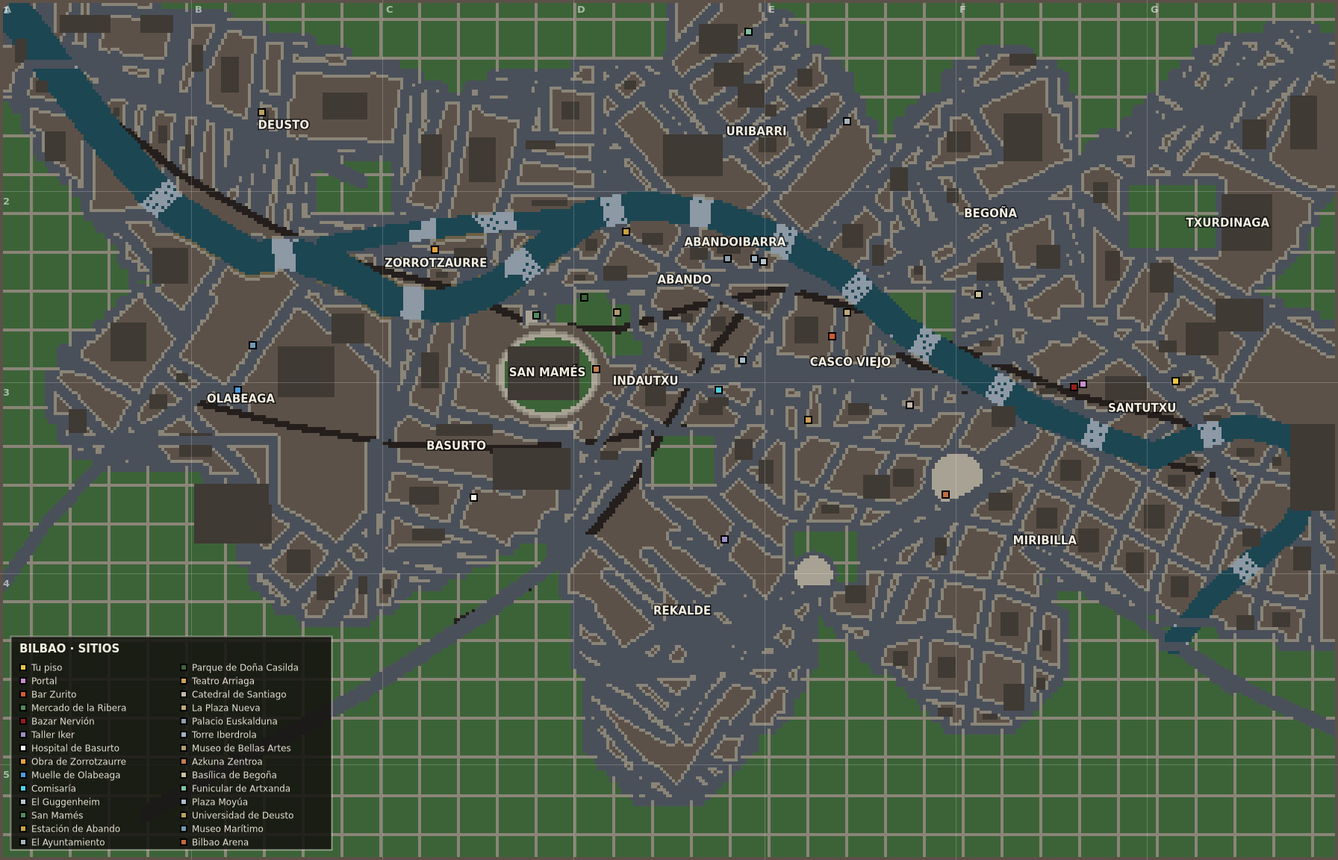
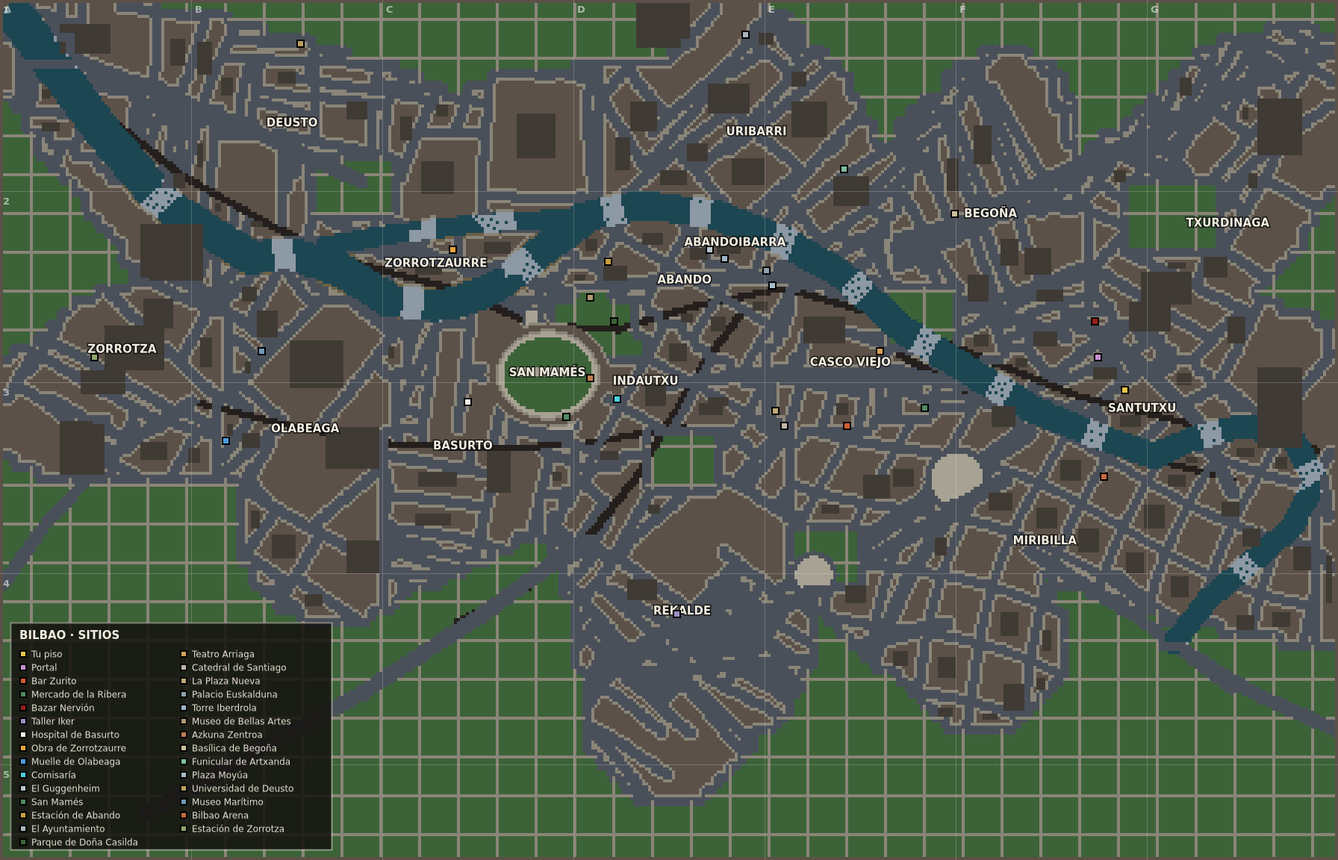
feat(bilbo-city): Zorrotza es barrio propio, no un trozo de Olabeaga
Faltaba. Estaba metido dentro de Olabeaga y en el plano municipal es un
barrio con nombre: margen izquierda río abajo, donde entra el Kadagua.
Puerto, muelles y polígono, así que trama industrial como su vecino pero con
su propio rumbo.

El corredor de la ría abajo se alarga para darle sitio, y lleva la Estación
de Zorrotza como sitio visitable — sin ninguno no había razón para acercarse.

Van 18 barrios y 29 sitios, los 29 cuadrando entre el HTML y Unity.
Verificado: batería entera en verde y C# compilando sin avisos.

Claude-Session: https://claude.ai/code/session_01TRzVFH25BrVEwpaMSPAuky

diff --git a/bilbo-city/referencia/bilbo-city.html b/bilbo-city/referencia/bilbo-city.html
@@ -700,46 +700,46 @@ const ATLAS=[
  'FDDDDDDDDDDDDDDDDDDDDDDDDDDDDDDDDDDDDDDDDDDDDDDDDDUUUUUUUUUUUUUUUUUUUUUUFFFFFUUUGGGGGGGGTTFFFFFFTTTTTTTTTTTTTTTT',
  'FFDDDDDDDDDDDDDDDDDDDDDDDDDDDDDDDDDDDDDDDDDDDDDDDDUUUUUUUUUUUUUUUUUUUUUUFFFFUUUGGGGGGGGGGTFFFFFTTTTTTTTTTTTTTTTT',
  'FFDDDDDDDDDDDDDDDDDDDDDDDDDDDDDDDDDDDDDDDDDDDDDDDDUUUUUUUUUUUUUUUUUUUUUUUFFUUUUGGGGGGGGGGTFFFFTTTTTTTTTTTTTTTTTT',
- 'FFFDDDDDDDDDDDDDDDDDDDDDDDDDDDDDDDDDDDDDDDDDDDDDDDUUUUUUUUUUUUUUUUUUUUUUUFFUUUGGGGGGGGGGGTFFTTTTTTTTTTTTTTTTTTTT',
- 'FFFDDDDDDDDDDDDDDDDDDDDDDDDDDDDDDDDDDDDDDDDDDDDDDDUUUUUUUUUUUUUUUUUUUUUUUUUUUUGGGGGGGGGGGGFTTTTTTTTTTTTTTTTTTTTT',
- 'FFFFDDDDDDDDDDDDDDDDDDDDDDPPPPPPPDDDDDDDDDDDDDDDDDUUUUUUUUUUUUUUUUUUUUUUUUUUUGGGGGGGGGGGGGTTTTTTTTTTTTTTTTTTTTTT',
- 'FFFFFDDDDDDDDDDDDDDDDDDDDDPPPPPPPDDDDDDDDDDDDDDDDDUUUUUUUUUUUUUUUUUUUUUUUUUUGGGGGGGGGGGGGGTTTTTTTTTTTTTTTTTTTTTT',
- 'FFFFFFDDDDDDDDDDDDDDDDDDDDPPPPPPPDDDDDDDDDDDDDDDDDUUUUUUUUUUUUUUUUUUUUUUUUUUGGGGGGGGGGGGGGTTTTPPPPPPPPTTTTTTTTTT',
- 'FFFFFFFDDDDDDDDDDDDDDDDDDDPPPPPPPDDDDDDDDDDDDDDDDDUUUUUUUUUUUUUUUUUUUUUUUUUGGGGGGGGGGGGGGGTTTTPPPPPPPPTTTTTTTTTF',
- 'FFFFFFFDDDDDDDDDDDDDDDDDDDPPPPPPPDDDDDDDDDDDDDDDDUUAAAAAAXUUUUUUUUUUUUUUUUUGGGGGGGGGGGGGGGGTTTPPPPPPPPTTTTTTTTFF',
- 'FFFFFFFFOOOOODDDDDDDDDDDDDDDDDDDDDDDDDDDDDDDDDDDAAAAAAAAAXXXXXUUUUUUUUUUUUGGGGGGGGGGGGGGGGGTTTPPPPPPPPTTTTTTTTFF',
- 'FFFFFFFFFOOOOOOOOODDDDDDDDDDDDDDDDDDZZZZZZZZZZDAAAAAAAAAAAXXXXXXUUUUUUUUUUGGGGGGGGGGGGGGGGGTTTPPPPPPPPTTTTTTTFFF',
- 'FFFFFFFFFFOOOOOOOOOOOODDDDZZZZZZZZZZZZZZZZZZZZZAAAAAAAAAAAXXXXXXXXUUUUUUUGGGGGGGGGGGGGGGGGGTTTPPPPPPPPTTTTTTTFFF',
- 'FFFFFFFFFFOOOOOOOOOOOOOOOZZZZZZZZZZZZZZZZZZZZZZZAAAAAAAAAAAXXXXXXXXAUUUUUGGGGGGGGGGGGGGGGGGTTTTTTTTTTTTTTTTTFFFF',
- 'FFFFFFFFFFFOOOOOOOOOOOOOOZZZZZZZZZZZZZZZZZZZZZZIIIAAAAAAAAAAAXXXXAACCCUUGGGGGGGGGGGGGGGGGGGTTTTTTTTTTTTTTTTFFFFF',
- 'FFFFFFFFFFFFFOOOOOOOOOOOOOZZZZZZZZZZZZZZZZZZZZIIIIIAAAAAAAAAAAAAAAACCCCUGGGGGGGGGGGGGGGGGGGTTTTTTTTTTTTTTTFFFFFF',
- 'FFFFFFFFFFFOOOOOOOOOOOOOOOOZZZZZZZZZZZZZZZZZZIIIPPPIAAAAAAAAAAAAAACCCCCCGGPPPPPPGGGGGGGGGGGTTTTTTTTTTTTTTFFFFFFF',
- 'FFFFFFFFFFOOOOOOOOOOOOOOOOOOOOOOOOBBBBBBBBBBIIPPPPPPPIAAAAAAAAAAAACCCCCCCGPPPPPPGGGGGGGGGGGTTTTTTTTTTTTTTTTFFFFF',
- 'FFFFFFFFFOOOOOOOOOOOOOOOOOOOOOOOOBBBBBBBBBBBEIPPPPPPPIIAAAAAAAAAACCCCCCCCCPPPPPPGGGGGGGGGSSSSTTTTTTTTTTTTTTTTTFF',
- 'FFFFFFFFOOOOOOOOOOOOOOOOOOOOOOOOOBBBBBBBBBBBEEPPPPPPPIIIIAAAAAAAACCCCCCCCCPPPPPPGGGGGGGGSSSSSSSTTTTTTTTTTTTTTTTT',
- 'FFFFFFOOOOOOOOOOOOOOOOOOOOOOOOOOOBBBBBBBBBBEEEEPPPPPPPIIIIAAAAAAACCCCCCCCCPPPPPPGGGGGGSSSSSSSSSSSTTTTTTTTTTTTTTT',
- 'FFFFFOOOOOOOOOOOOOOOOOOOOOOOOOOOOBBBBBBBBBBEEEEPPPPPPPIIIIIAAAAACCCCCCCCCCCCCCCGGGGGSSSSSSSSSSSSSSTTTTTTTTTTTTTT',
- 'FFFFFOOOOOOOOOOOOOOOOOOOOOOOOOOOOBBBBBBBBBBEEEEEEIIIIIIIIIIIIAAACCCCCCCCCCCCCCCCGGSSSSSSSSSSSSSSSSSSTTTTTTTTTTTT',
- 'FFFFOOOOOOOOOOOOOOOOOOOOOOOOOOOOBBBBBBBBBBBEEEEEEIIIIIIIIIIIIIAACCCCCCCCCCCCCCCCCCSSSSSSSSSSSSSSSSSSSTTTTTTTTTTT',
- 'FFFFOOOOOOOOOOOOOOOOOOOOOOOOOOOOBBBBBBBBBBBBEEEEEIIIIIIIIIIIIIIICCCCCCCCCCCCCCCCCCCCSSSSSSSSSSSSSSSSSSTTTTTTTTTT',
- 'FFFFOOOOOOOOOOOOOOOOOOOOOOOOOOOOBBBBBBBBBBBBEEEEEIIIIIIIIIIIIIIICCCCCCCCCCCCCCCCCMMMMSSSSSSSSSSSSSSSSSSTTTTTTTTT',
- 'FFFFOOOOOOOOOOOOOOOOOOOOOOOOOOOOBBBBBBBBBBBBBEEEIIIIIIIIIIIIIIIICCCCCCCCCCCCCCMMMMMMMMMSSSSSSSSSSSSSSSSSSTTTTTTT',
- 'FFFFFOOOOOOOOOOOOOOOOOOOOOOOOOOOBBBBBBBBBBBBBBEEIIIIIIIIIIIIIIRRRCCCCCCCCMMMMMMMMMMMMMMMMMSSSSSSSSSSSSSSSSTTTTTT',
- 'FFFFFOOOOOOOOOOOOOOOOOOOOOOOOOOOBBBBBBBBBBBBBBBIIIIIIIPPPPPPRRRRRRCMMMMMMMMMMMMMMMMMMMMMMMMMSSSSSSSSMMMMMMMMTTTT',
- 'FFFFFFOOOOOOOOOOOOOOOOOOOOOOOOOBBBBBBBBBBBBBBBBBIIIIIIPPPPPPRRRRRRMMMMMMMMMMMMMMMMMMMMMMMMMMMMMSSSMMMMMMMMMMMTTT',
- 'FFFFFFFFOOOOOOOOOOOOOOOOOOOOOOOBBBBBBBBBBBBBBBBBIIIIRRPPPPPPRRRRRRMMMMMMMMMMMMMMMMMMMMMMMMMMMMMMMMMMMMMMMMMMMTTT',
- 'FFFFFFFFFFFFFFFFFOOOOOOOOOOOOOOBBBBBBBBBBBBBBBBBRRRRRRPPPPPPRRRRRRMMMMMMMMMMMMMMMMMMMMMMMMMMMMMMMMMMMMMMMMMMMMTT',
- 'FFFFFFFFFFFFFFFFFFFFFOOOOOOOOOOBBBBBBBBBBBBBBBBBRRRRRRPPPPPPRRRRRRMMMMMMMMMMMMMMMMMMMMMMMMMMMMMMMMMMMMMMMMMMMMTT',
- 'FFFFFFFFFFFFFFFFFFFFOOOOOOOOOOOBBBBBBBBBBBBBBBBRRRRRRRRRRRRRRRRRRRMMMMMMMMMMMMMMMMMMMMMMMMMMMMMMMMMMMMMMMMMMMMST',
- 'FFFFFFFFFFFFFFFFFFFFOOOOOOOOOOOBBBBBBBBBBBBBBBBRRRRRRRRRRRRRRRRRRRMMMMMMMMMMMMMMMMMMMMMMMMMMMMMMMMMMMMMMMMMMMMST',
- 'FFFFFFFFFFFFFFFFFFFFOOOOOOOOOOOBBBBBBBBBBBBBBBRRRRRRRRRRRRRRRRRRRRRMMMMMMMMMMMMMMMMMMMMMMMMMMMMMMMMMMMMMMMMMMMSS',
- 'FFFFFFFFFFFFFFFFFFFFOOOOOOOOOOOBBBBBBBBBBBBBBBRRRRRRRRRRRRRRRRRRRRPPPPPPMMMMMMMMMMMMMMMMMMMMMMMMMMMMMMMMMMMMMMSS',
- 'FFFFFFFFFFFFFFFFFFFFOOOOOOOOOOOBBBBBBBBBBBBFFFRRRRRRRRRRRRRRRRRRRRPPPPPPMMMMMMMMMMMMMMMMMMMMMMMMMMMMMMMMMMMMMMSS',
- 'FFFFFFFFFFFFFFFFFFFFOOOOOOOOOOOBBBBBBBBBBFFFFFRRRRRRRRRRRRRRRRRRRRPPPPPPMMMMMMMMMMMMMMMMMMMMMMMMMMMMMMMMMMMMMMSS',
- 'FFFFFFFFFFFFFFFFFFFFFOOOOOOOOOOBBBBBBBBFFFFFFFFRRRRRRRRRRRRRRRRRRRPPPPPPMMMMMMMMMMMMMMMMMMMMMMMMMMMMMMMMMMMMMMSS',
- 'FFFFFFFFFFFFFFFFFFFFFOOOOOOOOOOBBBBBBFFFFFFFFFFRRRRRRRRRRRRRRRRRRRPPPPPPMMMMMMMMMMMMMMMFMMMMMMMMMMMMMMMMMMMMMMSS',
- 'FFFFFFFFFFFFFFFFFFFFFFOOOOOOOOOBBBFFFFFFFFFFFFFRRRRRRRRRRRRRRRRRRRRMMMMMMMMMMMMMMMMMMMMMFFFMMMMMMMMMMMMMMMMMMMSS',
- 'FFFFFFFFFFFFFFFFFFFFFFFOOOOOOOOBBFFFFFFFFFFFFFFFRRRRRRRRRRRRRRRRRRRRMMMMMMMMMMMMMMMMMMMMFFFFFFMMMMMMMMMMMMMMMMSS',
+ 'FFFYDDDDDDDDDDDDDDDDDDDDDDDDDDDDDDDDDDDDDDDDDDDDDDUUUUUUUUUUUUUUUUUUUUUUUFFUUUGGGGGGGGGGGTFFTTTTTTTTTTTTTTTTTTTT',
+ 'FFFYYYDDDDDDDDDDDDDDDDDDDDDDDDDDDDDDDDDDDDDDDDDDDDUUUUUUUUUUUUUUUUUUUUUUUUUUUUGGGGGGGGGGGGFTTTTTTTTTTTTTTTTTTTTT',
+ 'FFFFYYYYDDDDDDDDDDDDDDDDDDPPPPPPPDDDDDDDDDDDDDDDDDUUUUUUUUUUUUUUUUUUUUUUUUUUUGGGGGGGGGGGGGTTTTTTTTTTTTTTTTTTTTTT',
+ 'FFFFFYYYYDDDDDDDDDDDDDDDDDPPPPPPPDDDDDDDDDDDDDDDDDUUUUUUUUUUUUUUUUUUUUUUUUUUGGGGGGGGGGGGGGTTTTTTTTTTTTTTTTTTTTTT',
+ 'FFFFFFYYYYYDDDDDDDDDDDDDDDPPPPPPPDDDDDDDDDDDDDDDDDUUUUUUUUUUUUUUUUUUUUUUUUUUGGGGGGGGGGGGGGTTTTPPPPPPPPTTTTTTTTTT',
+ 'FFFFFFFYYYYYYDDDDDDDDDDDDDPPPPPPPDDDDDDDDDDDDDDDDDUUUUUUUUUUUUUUUUUUUUUUUUUGGGGGGGGGGGGGGGTTTTPPPPPPPPTTTTTTTTTF',
+ 'FFFFFFFYYYYYYYDDDDDDDDDDDDPPPPPPPDDDDDDDDDDDDDDDDUUAAAAAAXUUUUUUUUUUUUUUUUUGGGGGGGGGGGGGGGGTTTPPPPPPPPTTTTTTTTFF',
+ 'FFFFFFFFYYYYYYYYDDDDDDDDDDDDDDDDDDDDDDDDDDDDDDDDAAAAAAAAAXXXXXUUUUUUUUUUUUGGGGGGGGGGGGGGGGGTTTPPPPPPPPTTTTTTTTFF',
+ 'FFFFFFFFFYYYYYYYYDDDDDDDDDDDDDDDDDDDZZZZZZZZZZDAAAAAAAAAAAXXXXXXUUUUUUUUUUGGGGGGGGGGGGGGGGGTTTPPPPPPPPTTTTTTTFFF',
+ 'FFFFFFFFFFYYYYYYYYOODDDDDDZZZZZZZZZZZZZZZZZZZZZAAAAAAAAAAAXXXXXXXXUUUUUUUGGGGGGGGGGGGGGGGGGTTTPPPPPPPPTTTTTTTFFF',
+ 'FFFFFFFFFFYYYYYYYYOOOOOOOZZZZZZZZZZZZZZZZZZZZZZZAAAAAAAAAAAXXXXXXXXAUUUUUGGGGGGGGGGGGGGGGGGTTTTTTTTTTTTTTTTTFFFF',
+ 'FFFFFFFFFFFYYYYYYYOOOOOOOZZZZZZZZZZZZZZZZZZZZZZIIIAAAAAAAAAAAXXXXAACCCUUGGGGGGGGGGGGGGGGGGGTTTTTTTTTTTTTTTTFFFFF',
+ 'FFFFFFFFFFFYYYYYYYOOOOOOOOZZZZZZZZZZZZZZZZZZZZIIIIIAAAAAAAAAAAAAAAACCCCUGGGGGGGGGGGGGGGGGGGTTTTTTTTTTTTTTTFFFFFF',
+ 'FFFFFFFFYYYYYYYYYYOOOOOOOOOZZZZZZZZZZZZZZZZZZIIIPPPIAAAAAAAAAAAAAACCCCCCGGPPPPPPGGGGGGGGGGGTTTTTTTTTTTTTTFFFFFFF',
+ 'FFFFFFYYYYYYYYYYYYOOOOOOOOOOOOOOOOOBBBBBBBBBIIPPPPPPPIAAAAAAAAAAAACCCCCCCGPPPPPPGGGGGGGGGGGTTTTTTTTTTTTTTTTFFFFF',
+ 'FFFFFYYYYYYYYYYYYYYOOOOOOOOOOOOOOOOBBBBBBBBBEIPPPPPPPIIAAAAAAAAAACCCCCCCCCPPPPPPGGGGGGGGGSSSSTTTTTTTTTTTTTTTTTFF',
+ 'FFFFYYYYYYYYYYYYYYYOOOOOOOOOOOOOOOBBBBBBBBBBEEPPPPPPPIIIIAAAAAAAACCCCCCCCCPPPPPPGGGGGGGGSSSSSSSTTTTTTTTTTTTTTTTT',
+ 'FFFYYYYYYYYYYYYYYYYOOOOOOOOOOOOOOOBBBBBBBBBEEEEPPPPPPPIIIIAAAAAAACCCCCCCCCPPPPPPGGGGGGSSSSSSSSSSSTTTTTTTTTTTTTTT',
+ 'FYYYYYYYYYYYYYYYYYYOOOOOOOOOOOOOOOBBBBBBBBBEEEEPPPPPPPIIIIIAAAAACCCCCCCCCCCCCCCGGGGGSSSSSSSSSSSSSSTTTTTTTTTTTTTT',
+ 'YYYYYYYYYYYYYYYYYYYOOOOOOOOOOOOOOOBBBBBBBBBEEEEEEIIIIIIIIIIIIAAACCCCCCCCCCCCCCCCGGSSSSSSSSSSSSSSSSSSTTTTTTTTTTTT',
+ 'YYYYYYYYYYYYYYYYYYYOOOOOOOOOOOOOOBBBBBBBBBBEEEEEEIIIIIIIIIIIIIAACCCCCCCCCCCCCCCCCCSSSSSSSSSSSSSSSSSSSTTTTTTTTTTT',
+ 'YYYYYYYYYYYYYYYYYYYOOOOOOOOOOOOOOBBBBBBBBBBBEEEEEIIIIIIIIIIIIIIICCCCCCCCCCCCCCCCCCCCSSSSSSSSSSSSSSSSSSTTTTTTTTTT',
+ 'YYYYYYYYYYYYYYYYYYOOOOOOOOOOOOOOOBBBBBBBBBBBEEEEEIIIIIIIIIIIIIIICCCCCCCCCCCCCCCCCMMMMSSSSSSSSSSSSSSSSSSTTTTTTTTT',
+ 'YYYYYYYYYYYYYYYYYYOOOOOOOOOOOOOOOBBBBBBBBBBBBEEEIIIIIIIIIIIIIIIICCCCCCCCCCCCCCMMMMMMMMMSSSSSSSSSSSSSSSSSSTTTTTTT',
+ 'YYYYYYYYYYYYYYYYYYOOOOOOOOOOOOOOOBBBBBBBBBBBBBEEIIIIIIIIIIIIIIRRRCCCCCCCCMMMMMMMMMMMMMMMMMSSSSSSSSSSSSSSSSTTTTTT',
+ 'YYYYYYYYYYYYYYYYYYOOOOOOOOOOOOOOBBBBBBBBBBBBBBBIIIIIIIPPPPPPRRRRRRCMMMMMMMMMMMMMMMMMMMMMMMMMSSSSSSSSMMMMMMMMTTTT',
+ 'YYYYYYYYYYYYYYYYYYOOOOOOOOOOOOOOBBBBBBBBBBBBBBBBIIIIIIPPPPPPRRRRRRMMMMMMMMMMMMMMMMMMMMMMMMMMMMMSSSMMMMMMMMMMMTTT',
+ 'FYYYYYYYYYYYYYYYYYOOOOOOOOOOOOOOBBBBBBBBBBBBBBBBIIIIRRPPPPPPRRRRRRMMMMMMMMMMMMMMMMMMMMMMMMMMMMMMMMMMMMMMMMMMMTTT',
+ 'FFFYYYYYYYYYYYYYYYOOOOOOOOOOOOOOBBBBBBBBBBBBBBBBRRRRRRPPPPPPRRRRRRMMMMMMMMMMMMMMMMMMMMMMMMMMMMMMMMMMMMMMMMMMMMTT',
+ 'FFFFFFFFFFFFFFFFFFFFOOOOOOOOOOOOBBBBBBBBBBBBBBBBRRRRRRPPPPPPRRRRRRMMMMMMMMMMMMMMMMMMMMMMMMMMMMMMMMMMMMMMMMMMMMTT',
+ 'FFFFFFFFFFFFFFFFFFFFOOOOOOOOOOOOBBBBBBBBBBBBBBBRRRRRRRRRRRRRRRRRRRMMMMMMMMMMMMMMMMMMMMMMMMMMMMMMMMMMMMMMMMMMMMST',
+ 'FFFFFFFFFFFFFFFFFFFFOOOOOOOOOOOOBBBBBBBBBBBBBBBRRRRRRRRRRRRRRRRRRRMMMMMMMMMMMMMMMMMMMMMMMMMMMMMMMMMMMMMMMMMMMMST',
+ 'FFFFFFFFFFFFFFFFFFFFOOOOOOOOOOOOBBBBBBBBBBBBBBRRRRRRRRRRRRRRRRRRRRRMMMMMMMMMMMMMMMMMMMMMMMMMMMMMMMMMMMMMMMMMMMSS',
+ 'FFFFFFFFFFFFFFFFFFFFOOOOOOOOOOOOBBBBBBBBBBBBBBRRRRRRRRRRRRRRRRRRRRPPPPPPMMMMMMMMMMMMMMMMMMMMMMMMMMMMMMMMMMMMMMSS',
+ 'FFFFFFFFFFFFFFFFFFFFOOOOOOOOOOOOBBBBBBBBBBBFFFRRRRRRRRRRRRRRRRRRRRPPPPPPMMMMMMMMMMMMMMMMMMMMMMMMMMMMMMMMMMMMMMSS',
+ 'FFFFFFFFFFFFFFFFFFFFOOOOOOOOOOOOBBBBBBBBBFFFFFRRRRRRRRRRRRRRRRRRRRPPPPPPMMMMMMMMMMMMMMMMMMMMMMMMMMMMMMMMMMMMMMSS',
+ 'FFFFFFFFFFFFFFFFFFFFFOOOOOOOOOOOBBBBBBBFFFFFFFFRRRRRRRRRRRRRRRRRRRPPPPPPMMMMMMMMMMMMMMMMMMMMMMMMMMMMMMMMMMMMMMSS',
+ 'FFFFFFFFFFFFFFFFFFFFFOOOOOOOOOOOBBBBBFFFFFFFFFFRRRRRRRRRRRRRRRRRRRPPPPPPMMMMMMMMMMMMMMMFMMMMMMMMMMMMMMMMMMMMMMSS',
+ 'FFFFFFFFFFFFFFFFFFFFFFOOOOOOOOOOBBFFFFFFFFFFFFFRRRRRRRRRRRRRRRRRRRRMMMMMMMMMMMMMMMMMMMMMFFFMMMMMMMMMMMMMMMMMMMSS',
+ 'FFFFFFFFFFFFFFFFFFFFFFFOOOOOOOOOBFFFFFFFFFFFFFFFRRRRRRRRRRRRRRRRRRRRMMMMMMMMMMMMMMMMMMMMFFFFFFMMMMMMMMMMMMMMMMSS',
  'FFFFFFFFFFFFFFFFFFFFFFFFFOOOOOOFFFFFFFFFFFFFFFFFRRRRRRRRRRRRRRRRRRRRFMMMMMMMMMMMMMMMMMMMMFFFFFFFFMMMMMMMMMMMMMSS',
  'FFFFFFFFFFFFFFFFFFFFFFFFFFFFFFFFFFFFFFFFFFFFFFFFRRRRRRRRRRRRRRRRRRRRFFMMMMMMMMMMMMMMMMMMMFFFFFFFFFFFFFMMMMMMMMSS',
  'FFFFFFFFFFFFFFFFFFFFFFFFFFFFFFFFFFFFFFFFFFFFFFFFRRRRRRRRRRRRRRRRRRRRFFFMMMMMMMMMMMMMMMMMMFFFFFFFFFFFFFFFFFFMMMSS',
@@ -777,6 +777,7 @@ const ZONAS={
  D:{n:'Deusto',        sp:19,spy:12,w:3, ox:3, oy:5, ang:8, curva:4, onda:30, estilo:'bloques',      tinte:'#4e5a52'},
  Z:{n:'Zorrotzaurre',  sp:20,spy:16,w:3, ox:2, oy:2, ang:14, curva:2, onda:30, estilo:'industrial',   tinte:'#6b5f45'},
  O:{n:'Olabeaga',      sp:26,spy:20,w:3, ox:6, oy:4, ang:40, curva:5, onda:26, estilo:'industrial',   tinte:'#5a5340'},
+ Y:{n:'Zorrotza',      sp:28,spy:22,w:3, ox:3, oy:7, ang:32, curva:4, onda:28, estilo:'industrial',   tinte:'#57503e'},
  S:{n:'Santutxu',      sp:13,spy:20,w:3, ox:4, oy:1, ang:55, curva:6, onda:20, estilo:'bloques',      tinte:'#5c4a3a'},
  G:{n:'Begoña',        sp:17,spy:12,w:3, ox:6, oy:7, ang:65, curva:7, onda:18, estilo:'bloques',      tinte:'#57505a'},
  U:{n:'Uribarri',      sp:13,spy:22,w:3, ox:0, oy:3, ang:48, curva:6, onda:20, estilo:'bloques',      tinte:'#4f5a63'},
@@ -1207,7 +1208,7 @@ function colocarPOIs(){
   {id:'taller',n:'Taller Iker',ico:'🔧',c:'#9d8ec4',int:'taller',cerca:[228,204],z:'R'},
   {id:'hospital',n:'Hospital de Basurto',ico:'🏥',c:C.blanco,int:'hospital',cerca:[153,155],z:'B'},
   {id:'obra',n:'Obra de Zorrotzaurre',ico:'🚧',c:'#e8a33d',cerca:[148,86],z:'Z'},
-  {id:'puerto',n:'Muelle de Olabeaga',ico:'⚓',c:'#4d9de0',cerca:[79,136],z:'O'},
+  {id:'puerto',n:'Muelle de Olabeaga',ico:'⚓',c:'#4d9de0',cerca:[100,147],z:'O'},
   {id:'poli',n:'Comisaría',ico:'🚔',c:'#4dd0e1',cerca:[214,128],z:'I'},
   {id:'guggen',n:'El Guggenheim',ico:'🏛',c:'#b8c4cc',mira:1,cerca:[246,86],z:'X'},
   {id:'sanmames',n:'San Mamés',ico:'⚽',c:C.verdeL,mira:1,cerca:[186,124],z:'E'},
@@ -1228,6 +1229,7 @@ function colocarPOIs(){
   {id:'deustuni',n:'Universidad de Deusto',ico:'🎓',c:'#b8a05c',mira:1,cerca:[106,39],z:'D'},
   {id:'maritimo',n:'Museo Marítimo',ico:'⚓',c:'#6f9ab5',mira:1,cerca:[83,140],z:'O'},
   {id:'arena',n:'Bilbao Arena',ico:'🏀',c:'#c4693f',mira:1,cerca:[344,184],z:'M'},
+  {id:'zorrotza',n:'Estación de Zorrotza',ico:'🚂',c:'#8fa66b',mira:1,cerca:[41,117],z:'Y'},
  ].forEach(d=>POI.push({...d,
    p:d.mira?puntoZona(d.cerca[0],d.cerca[1],30,d.z):puntoPortal(d.cerca[0],d.cerca[1],30,d.z)}));
 }

diff --git a/bilbo-city/unity/BilboCity/Assets/Scripts/Ciudad/Ciudad.cs b/bilbo-city/unity/BilboCity/Assets/Scripts/Ciudad/Ciudad.cs
@@ -40,46 +40,46 @@ public static class Ciudad {
         "FDDDDDDDDDDDDDDDDDDDDDDDDDDDDDDDDDDDDDDDDDDDDDDDDDUUUUUUUUUUUUUUUUUUUUUUFFFFFUUUGGGGGGGGTTFFFFFFTTTTTTTTTTTTTTTT",
         "FFDDDDDDDDDDDDDDDDDDDDDDDDDDDDDDDDDDDDDDDDDDDDDDDDUUUUUUUUUUUUUUUUUUUUUUFFFFUUUGGGGGGGGGGTFFFFFTTTTTTTTTTTTTTTTT",
         "FFDDDDDDDDDDDDDDDDDDDDDDDDDDDDDDDDDDDDDDDDDDDDDDDDUUUUUUUUUUUUUUUUUUUUUUUFFUUUUGGGGGGGGGGTFFFFTTTTTTTTTTTTTTTTTT",
-        "FFFDDDDDDDDDDDDDDDDDDDDDDDDDDDDDDDDDDDDDDDDDDDDDDDUUUUUUUUUUUUUUUUUUUUUUUFFUUUGGGGGGGGGGGTFFTTTTTTTTTTTTTTTTTTTT",
-        "FFFDDDDDDDDDDDDDDDDDDDDDDDDDDDDDDDDDDDDDDDDDDDDDDDUUUUUUUUUUUUUUUUUUUUUUUUUUUUGGGGGGGGGGGGFTTTTTTTTTTTTTTTTTTTTT",
-        "FFFFDDDDDDDDDDDDDDDDDDDDDDPPPPPPPDDDDDDDDDDDDDDDDDUUUUUUUUUUUUUUUUUUUUUUUUUUUGGGGGGGGGGGGGTTTTTTTTTTTTTTTTTTTTTT",
-        "FFFFFDDDDDDDDDDDDDDDDDDDDDPPPPPPPDDDDDDDDDDDDDDDDDUUUUUUUUUUUUUUUUUUUUUUUUUUGGGGGGGGGGGGGGTTTTTTTTTTTTTTTTTTTTTT",
-        "FFFFFFDDDDDDDDDDDDDDDDDDDDPPPPPPPDDDDDDDDDDDDDDDDDUUUUUUUUUUUUUUUUUUUUUUUUUUGGGGGGGGGGGGGGTTTTPPPPPPPPTTTTTTTTTT",
-        "FFFFFFFDDDDDDDDDDDDDDDDDDDPPPPPPPDDDDDDDDDDDDDDDDDUUUUUUUUUUUUUUUUUUUUUUUUUGGGGGGGGGGGGGGGTTTTPPPPPPPPTTTTTTTTTF",
-        "FFFFFFFDDDDDDDDDDDDDDDDDDDPPPPPPPDDDDDDDDDDDDDDDDUUAAAAAAXUUUUUUUUUUUUUUUUUGGGGGGGGGGGGGGGGTTTPPPPPPPPTTTTTTTTFF",
-        "FFFFFFFFOOOOODDDDDDDDDDDDDDDDDDDDDDDDDDDDDDDDDDDAAAAAAAAAXXXXXUUUUUUUUUUUUGGGGGGGGGGGGGGGGGTTTPPPPPPPPTTTTTTTTFF",
-        "FFFFFFFFFOOOOOOOOODDDDDDDDDDDDDDDDDDZZZZZZZZZZDAAAAAAAAAAAXXXXXXUUUUUUUUUUGGGGGGGGGGGGGGGGGTTTPPPPPPPPTTTTTTTFFF",
-        "FFFFFFFFFFOOOOOOOOOOOODDDDZZZZZZZZZZZZZZZZZZZZZAAAAAAAAAAAXXXXXXXXUUUUUUUGGGGGGGGGGGGGGGGGGTTTPPPPPPPPTTTTTTTFFF",
-        "FFFFFFFFFFOOOOOOOOOOOOOOOZZZZZZZZZZZZZZZZZZZZZZZAAAAAAAAAAAXXXXXXXXAUUUUUGGGGGGGGGGGGGGGGGGTTTTTTTTTTTTTTTTTFFFF",
-        "FFFFFFFFFFFOOOOOOOOOOOOOOZZZZZZZZZZZZZZZZZZZZZZIIIAAAAAAAAAAAXXXXAACCCUUGGGGGGGGGGGGGGGGGGGTTTTTTTTTTTTTTTTFFFFF",
-        "FFFFFFFFFFFFFOOOOOOOOOOOOOZZZZZZZZZZZZZZZZZZZZIIIIIAAAAAAAAAAAAAAAACCCCUGGGGGGGGGGGGGGGGGGGTTTTTTTTTTTTTTTFFFFFF",
-        "FFFFFFFFFFFOOOOOOOOOOOOOOOOZZZZZZZZZZZZZZZZZZIIIPPPIAAAAAAAAAAAAAACCCCCCGGPPPPPPGGGGGGGGGGGTTTTTTTTTTTTTTFFFFFFF",
-        "FFFFFFFFFFOOOOOOOOOOOOOOOOOOOOOOOOBBBBBBBBBBIIPPPPPPPIAAAAAAAAAAAACCCCCCCGPPPPPPGGGGGGGGGGGTTTTTTTTTTTTTTTTFFFFF",
-        "FFFFFFFFFOOOOOOOOOOOOOOOOOOOOOOOOBBBBBBBBBBBEIPPPPPPPIIAAAAAAAAAACCCCCCCCCPPPPPPGGGGGGGGGSSSSTTTTTTTTTTTTTTTTTFF",
-        "FFFFFFFFOOOOOOOOOOOOOOOOOOOOOOOOOBBBBBBBBBBBEEPPPPPPPIIIIAAAAAAAACCCCCCCCCPPPPPPGGGGGGGGSSSSSSSTTTTTTTTTTTTTTTTT",
-        "FFFFFFOOOOOOOOOOOOOOOOOOOOOOOOOOOBBBBBBBBBBEEEEPPPPPPPIIIIAAAAAAACCCCCCCCCPPPPPPGGGGGGSSSSSSSSSSSTTTTTTTTTTTTTTT",
-        "FFFFFOOOOOOOOOOOOOOOOOOOOOOOOOOOOBBBBBBBBBBEEEEPPPPPPPIIIIIAAAAACCCCCCCCCCCCCCCGGGGGSSSSSSSSSSSSSSTTTTTTTTTTTTTT",
-        "FFFFFOOOOOOOOOOOOOOOOOOOOOOOOOOOOBBBBBBBBBBEEEEEEIIIIIIIIIIIIAAACCCCCCCCCCCCCCCCGGSSSSSSSSSSSSSSSSSSTTTTTTTTTTTT",
-        "FFFFOOOOOOOOOOOOOOOOOOOOOOOOOOOOBBBBBBBBBBBEEEEEEIIIIIIIIIIIIIAACCCCCCCCCCCCCCCCCCSSSSSSSSSSSSSSSSSSSTTTTTTTTTTT",
-        "FFFFOOOOOOOOOOOOOOOOOOOOOOOOOOOOBBBBBBBBBBBBEEEEEIIIIIIIIIIIIIIICCCCCCCCCCCCCCCCCCCCSSSSSSSSSSSSSSSSSSTTTTTTTTTT",
-        "FFFFOOOOOOOOOOOOOOOOOOOOOOOOOOOOBBBBBBBBBBBBEEEEEIIIIIIIIIIIIIIICCCCCCCCCCCCCCCCCMMMMSSSSSSSSSSSSSSSSSSTTTTTTTTT",
-        "FFFFOOOOOOOOOOOOOOOOOOOOOOOOOOOOBBBBBBBBBBBBBEEEIIIIIIIIIIIIIIIICCCCCCCCCCCCCCMMMMMMMMMSSSSSSSSSSSSSSSSSSTTTTTTT",
-        "FFFFFOOOOOOOOOOOOOOOOOOOOOOOOOOOBBBBBBBBBBBBBBEEIIIIIIIIIIIIIIRRRCCCCCCCCMMMMMMMMMMMMMMMMMSSSSSSSSSSSSSSSSTTTTTT",
-        "FFFFFOOOOOOOOOOOOOOOOOOOOOOOOOOOBBBBBBBBBBBBBBBIIIIIIIPPPPPPRRRRRRCMMMMMMMMMMMMMMMMMMMMMMMMMSSSSSSSSMMMMMMMMTTTT",
-        "FFFFFFOOOOOOOOOOOOOOOOOOOOOOOOOBBBBBBBBBBBBBBBBBIIIIIIPPPPPPRRRRRRMMMMMMMMMMMMMMMMMMMMMMMMMMMMMSSSMMMMMMMMMMMTTT",
-        "FFFFFFFFOOOOOOOOOOOOOOOOOOOOOOOBBBBBBBBBBBBBBBBBIIIIRRPPPPPPRRRRRRMMMMMMMMMMMMMMMMMMMMMMMMMMMMMMMMMMMMMMMMMMMTTT",
-        "FFFFFFFFFFFFFFFFFOOOOOOOOOOOOOOBBBBBBBBBBBBBBBBBRRRRRRPPPPPPRRRRRRMMMMMMMMMMMMMMMMMMMMMMMMMMMMMMMMMMMMMMMMMMMMTT",
-        "FFFFFFFFFFFFFFFFFFFFFOOOOOOOOOOBBBBBBBBBBBBBBBBBRRRRRRPPPPPPRRRRRRMMMMMMMMMMMMMMMMMMMMMMMMMMMMMMMMMMMMMMMMMMMMTT",
-        "FFFFFFFFFFFFFFFFFFFFOOOOOOOOOOOBBBBBBBBBBBBBBBBRRRRRRRRRRRRRRRRRRRMMMMMMMMMMMMMMMMMMMMMMMMMMMMMMMMMMMMMMMMMMMMST",
-        "FFFFFFFFFFFFFFFFFFFFOOOOOOOOOOOBBBBBBBBBBBBBBBBRRRRRRRRRRRRRRRRRRRMMMMMMMMMMMMMMMMMMMMMMMMMMMMMMMMMMMMMMMMMMMMST",
-        "FFFFFFFFFFFFFFFFFFFFOOOOOOOOOOOBBBBBBBBBBBBBBBRRRRRRRRRRRRRRRRRRRRRMMMMMMMMMMMMMMMMMMMMMMMMMMMMMMMMMMMMMMMMMMMSS",
-        "FFFFFFFFFFFFFFFFFFFFOOOOOOOOOOOBBBBBBBBBBBBBBBRRRRRRRRRRRRRRRRRRRRPPPPPPMMMMMMMMMMMMMMMMMMMMMMMMMMMMMMMMMMMMMMSS",
-        "FFFFFFFFFFFFFFFFFFFFOOOOOOOOOOOBBBBBBBBBBBBFFFRRRRRRRRRRRRRRRRRRRRPPPPPPMMMMMMMMMMMMMMMMMMMMMMMMMMMMMMMMMMMMMMSS",
-        "FFFFFFFFFFFFFFFFFFFFOOOOOOOOOOOBBBBBBBBBBFFFFFRRRRRRRRRRRRRRRRRRRRPPPPPPMMMMMMMMMMMMMMMMMMMMMMMMMMMMMMMMMMMMMMSS",
-        "FFFFFFFFFFFFFFFFFFFFFOOOOOOOOOOBBBBBBBBFFFFFFFFRRRRRRRRRRRRRRRRRRRPPPPPPMMMMMMMMMMMMMMMMMMMMMMMMMMMMMMMMMMMMMMSS",
-        "FFFFFFFFFFFFFFFFFFFFFOOOOOOOOOOBBBBBBFFFFFFFFFFRRRRRRRRRRRRRRRRRRRPPPPPPMMMMMMMMMMMMMMMFMMMMMMMMMMMMMMMMMMMMMMSS",
-        "FFFFFFFFFFFFFFFFFFFFFFOOOOOOOOOBBBFFFFFFFFFFFFFRRRRRRRRRRRRRRRRRRRRMMMMMMMMMMMMMMMMMMMMMFFFMMMMMMMMMMMMMMMMMMMSS",
-        "FFFFFFFFFFFFFFFFFFFFFFFOOOOOOOOBBFFFFFFFFFFFFFFFRRRRRRRRRRRRRRRRRRRRMMMMMMMMMMMMMMMMMMMMFFFFFFMMMMMMMMMMMMMMMMSS",
+        "FFFYDDDDDDDDDDDDDDDDDDDDDDDDDDDDDDDDDDDDDDDDDDDDDDUUUUUUUUUUUUUUUUUUUUUUUFFUUUGGGGGGGGGGGTFFTTTTTTTTTTTTTTTTTTTT",
+        "FFFYYYDDDDDDDDDDDDDDDDDDDDDDDDDDDDDDDDDDDDDDDDDDDDUUUUUUUUUUUUUUUUUUUUUUUUUUUUGGGGGGGGGGGGFTTTTTTTTTTTTTTTTTTTTT",
+        "FFFFYYYYDDDDDDDDDDDDDDDDDDPPPPPPPDDDDDDDDDDDDDDDDDUUUUUUUUUUUUUUUUUUUUUUUUUUUGGGGGGGGGGGGGTTTTTTTTTTTTTTTTTTTTTT",
+        "FFFFFYYYYDDDDDDDDDDDDDDDDDPPPPPPPDDDDDDDDDDDDDDDDDUUUUUUUUUUUUUUUUUUUUUUUUUUGGGGGGGGGGGGGGTTTTTTTTTTTTTTTTTTTTTT",
+        "FFFFFFYYYYYDDDDDDDDDDDDDDDPPPPPPPDDDDDDDDDDDDDDDDDUUUUUUUUUUUUUUUUUUUUUUUUUUGGGGGGGGGGGGGGTTTTPPPPPPPPTTTTTTTTTT",
+        "FFFFFFFYYYYYYDDDDDDDDDDDDDPPPPPPPDDDDDDDDDDDDDDDDDUUUUUUUUUUUUUUUUUUUUUUUUUGGGGGGGGGGGGGGGTTTTPPPPPPPPTTTTTTTTTF",
+        "FFFFFFFYYYYYYYDDDDDDDDDDDDPPPPPPPDDDDDDDDDDDDDDDDUUAAAAAAXUUUUUUUUUUUUUUUUUGGGGGGGGGGGGGGGGTTTPPPPPPPPTTTTTTTTFF",
+        "FFFFFFFFYYYYYYYYDDDDDDDDDDDDDDDDDDDDDDDDDDDDDDDDAAAAAAAAAXXXXXUUUUUUUUUUUUGGGGGGGGGGGGGGGGGTTTPPPPPPPPTTTTTTTTFF",
+        "FFFFFFFFFYYYYYYYYDDDDDDDDDDDDDDDDDDDZZZZZZZZZZDAAAAAAAAAAAXXXXXXUUUUUUUUUUGGGGGGGGGGGGGGGGGTTTPPPPPPPPTTTTTTTFFF",
+        "FFFFFFFFFFYYYYYYYYOODDDDDDZZZZZZZZZZZZZZZZZZZZZAAAAAAAAAAAXXXXXXXXUUUUUUUGGGGGGGGGGGGGGGGGGTTTPPPPPPPPTTTTTTTFFF",
+        "FFFFFFFFFFYYYYYYYYOOOOOOOZZZZZZZZZZZZZZZZZZZZZZZAAAAAAAAAAAXXXXXXXXAUUUUUGGGGGGGGGGGGGGGGGGTTTTTTTTTTTTTTTTTFFFF",
+        "FFFFFFFFFFFYYYYYYYOOOOOOOZZZZZZZZZZZZZZZZZZZZZZIIIAAAAAAAAAAAXXXXAACCCUUGGGGGGGGGGGGGGGGGGGTTTTTTTTTTTTTTTTFFFFF",
+        "FFFFFFFFFFFYYYYYYYOOOOOOOOZZZZZZZZZZZZZZZZZZZZIIIIIAAAAAAAAAAAAAAAACCCCUGGGGGGGGGGGGGGGGGGGTTTTTTTTTTTTTTTFFFFFF",
+        "FFFFFFFFYYYYYYYYYYOOOOOOOOOZZZZZZZZZZZZZZZZZZIIIPPPIAAAAAAAAAAAAAACCCCCCGGPPPPPPGGGGGGGGGGGTTTTTTTTTTTTTTFFFFFFF",
+        "FFFFFFYYYYYYYYYYYYOOOOOOOOOOOOOOOOOBBBBBBBBBIIPPPPPPPIAAAAAAAAAAAACCCCCCCGPPPPPPGGGGGGGGGGGTTTTTTTTTTTTTTTTFFFFF",
+        "FFFFFYYYYYYYYYYYYYYOOOOOOOOOOOOOOOOBBBBBBBBBEIPPPPPPPIIAAAAAAAAAACCCCCCCCCPPPPPPGGGGGGGGGSSSSTTTTTTTTTTTTTTTTTFF",
+        "FFFFYYYYYYYYYYYYYYYOOOOOOOOOOOOOOOBBBBBBBBBBEEPPPPPPPIIIIAAAAAAAACCCCCCCCCPPPPPPGGGGGGGGSSSSSSSTTTTTTTTTTTTTTTTT",
+        "FFFYYYYYYYYYYYYYYYYOOOOOOOOOOOOOOOBBBBBBBBBEEEEPPPPPPPIIIIAAAAAAACCCCCCCCCPPPPPPGGGGGGSSSSSSSSSSSTTTTTTTTTTTTTTT",
+        "FYYYYYYYYYYYYYYYYYYOOOOOOOOOOOOOOOBBBBBBBBBEEEEPPPPPPPIIIIIAAAAACCCCCCCCCCCCCCCGGGGGSSSSSSSSSSSSSSTTTTTTTTTTTTTT",
+        "YYYYYYYYYYYYYYYYYYYOOOOOOOOOOOOOOOBBBBBBBBBEEEEEEIIIIIIIIIIIIAAACCCCCCCCCCCCCCCCGGSSSSSSSSSSSSSSSSSSTTTTTTTTTTTT",
+        "YYYYYYYYYYYYYYYYYYYOOOOOOOOOOOOOOBBBBBBBBBBEEEEEEIIIIIIIIIIIIIAACCCCCCCCCCCCCCCCCCSSSSSSSSSSSSSSSSSSSTTTTTTTTTTT",
+        "YYYYYYYYYYYYYYYYYYYOOOOOOOOOOOOOOBBBBBBBBBBBEEEEEIIIIIIIIIIIIIIICCCCCCCCCCCCCCCCCCCCSSSSSSSSSSSSSSSSSSTTTTTTTTTT",
+        "YYYYYYYYYYYYYYYYYYOOOOOOOOOOOOOOOBBBBBBBBBBBEEEEEIIIIIIIIIIIIIIICCCCCCCCCCCCCCCCCMMMMSSSSSSSSSSSSSSSSSSTTTTTTTTT",
+        "YYYYYYYYYYYYYYYYYYOOOOOOOOOOOOOOOBBBBBBBBBBBBEEEIIIIIIIIIIIIIIIICCCCCCCCCCCCCCMMMMMMMMMSSSSSSSSSSSSSSSSSSTTTTTTT",
+        "YYYYYYYYYYYYYYYYYYOOOOOOOOOOOOOOOBBBBBBBBBBBBBEEIIIIIIIIIIIIIIRRRCCCCCCCCMMMMMMMMMMMMMMMMMSSSSSSSSSSSSSSSSTTTTTT",
+        "YYYYYYYYYYYYYYYYYYOOOOOOOOOOOOOOBBBBBBBBBBBBBBBIIIIIIIPPPPPPRRRRRRCMMMMMMMMMMMMMMMMMMMMMMMMMSSSSSSSSMMMMMMMMTTTT",
+        "YYYYYYYYYYYYYYYYYYOOOOOOOOOOOOOOBBBBBBBBBBBBBBBBIIIIIIPPPPPPRRRRRRMMMMMMMMMMMMMMMMMMMMMMMMMMMMMSSSMMMMMMMMMMMTTT",
+        "FYYYYYYYYYYYYYYYYYOOOOOOOOOOOOOOBBBBBBBBBBBBBBBBIIIIRRPPPPPPRRRRRRMMMMMMMMMMMMMMMMMMMMMMMMMMMMMMMMMMMMMMMMMMMTTT",
+        "FFFYYYYYYYYYYYYYYYOOOOOOOOOOOOOOBBBBBBBBBBBBBBBBRRRRRRPPPPPPRRRRRRMMMMMMMMMMMMMMMMMMMMMMMMMMMMMMMMMMMMMMMMMMMMTT",
+        "FFFFFFFFFFFFFFFFFFFFOOOOOOOOOOOOBBBBBBBBBBBBBBBBRRRRRRPPPPPPRRRRRRMMMMMMMMMMMMMMMMMMMMMMMMMMMMMMMMMMMMMMMMMMMMTT",
+        "FFFFFFFFFFFFFFFFFFFFOOOOOOOOOOOOBBBBBBBBBBBBBBBRRRRRRRRRRRRRRRRRRRMMMMMMMMMMMMMMMMMMMMMMMMMMMMMMMMMMMMMMMMMMMMST",
+        "FFFFFFFFFFFFFFFFFFFFOOOOOOOOOOOOBBBBBBBBBBBBBBBRRRRRRRRRRRRRRRRRRRMMMMMMMMMMMMMMMMMMMMMMMMMMMMMMMMMMMMMMMMMMMMST",
+        "FFFFFFFFFFFFFFFFFFFFOOOOOOOOOOOOBBBBBBBBBBBBBBRRRRRRRRRRRRRRRRRRRRRMMMMMMMMMMMMMMMMMMMMMMMMMMMMMMMMMMMMMMMMMMMSS",
+        "FFFFFFFFFFFFFFFFFFFFOOOOOOOOOOOOBBBBBBBBBBBBBBRRRRRRRRRRRRRRRRRRRRPPPPPPMMMMMMMMMMMMMMMMMMMMMMMMMMMMMMMMMMMMMMSS",
+        "FFFFFFFFFFFFFFFFFFFFOOOOOOOOOOOOBBBBBBBBBBBFFFRRRRRRRRRRRRRRRRRRRRPPPPPPMMMMMMMMMMMMMMMMMMMMMMMMMMMMMMMMMMMMMMSS",
+        "FFFFFFFFFFFFFFFFFFFFOOOOOOOOOOOOBBBBBBBBBFFFFFRRRRRRRRRRRRRRRRRRRRPPPPPPMMMMMMMMMMMMMMMMMMMMMMMMMMMMMMMMMMMMMMSS",
+        "FFFFFFFFFFFFFFFFFFFFFOOOOOOOOOOOBBBBBBBFFFFFFFFRRRRRRRRRRRRRRRRRRRPPPPPPMMMMMMMMMMMMMMMMMMMMMMMMMMMMMMMMMMMMMMSS",
+        "FFFFFFFFFFFFFFFFFFFFFOOOOOOOOOOOBBBBBFFFFFFFFFFRRRRRRRRRRRRRRRRRRRPPPPPPMMMMMMMMMMMMMMMFMMMMMMMMMMMMMMMMMMMMMMSS",
+        "FFFFFFFFFFFFFFFFFFFFFFOOOOOOOOOOBBFFFFFFFFFFFFFRRRRRRRRRRRRRRRRRRRRMMMMMMMMMMMMMMMMMMMMMFFFMMMMMMMMMMMMMMMMMMMSS",
+        "FFFFFFFFFFFFFFFFFFFFFFFOOOOOOOOOBFFFFFFFFFFFFFFFRRRRRRRRRRRRRRRRRRRRMMMMMMMMMMMMMMMMMMMMFFFFFFMMMMMMMMMMMMMMMMSS",
         "FFFFFFFFFFFFFFFFFFFFFFFFFOOOOOOFFFFFFFFFFFFFFFFFRRRRRRRRRRRRRRRRRRRRFMMMMMMMMMMMMMMMMMMMMFFFFFFFFMMMMMMMMMMMMMSS",
         "FFFFFFFFFFFFFFFFFFFFFFFFFFFFFFFFFFFFFFFFFFFFFFFFRRRRRRRRRRRRRRRRRRRRFFMMMMMMMMMMMMMMMMMMMFFFFFFFFFFFFFMMMMMMMMSS",
         "FFFFFFFFFFFFFFFFFFFFFFFFFFFFFFFFFFFFFFFFFFFFFFFFRRRRRRRRRRRRRRRRRRRRFFFMMMMMMMMMMMMMMMMMMFFFFFFFFFFFFFFFFFFMMMSS",
@@ -111,6 +111,7 @@ public static class Ciudad {
         {'D', new Zona{ Nombre="Deusto",         Sp=19, Spy=12, W=3, Ox=3, Oy=5, Ang=8, Curva=4, Onda=30, Estilo="bloques",       Tinte=Paleta.H("#4e5a52") }},
         {'Z', new Zona{ Nombre="Zorrotzaurre",   Sp=20, Spy=16, W=3, Ox=2, Oy=2, Ang=14, Curva=2, Onda=30, Estilo="industrial",    Tinte=Paleta.H("#6b5f45") }},
         {'O', new Zona{ Nombre="Olabeaga",       Sp=26, Spy=20, W=3, Ox=6, Oy=4, Ang=40, Curva=5, Onda=26, Estilo="industrial",    Tinte=Paleta.H("#5a5340") }},
+        {'Y', new Zona{ Nombre="Zorrotza",       Sp=28, Spy=22, W=3, Ox=3, Oy=7, Ang=32, Curva=4, Onda=28, Estilo="industrial",    Tinte=Paleta.H("#57503e") }},
         {'S', new Zona{ Nombre="Santutxu",       Sp=13, Spy=20, W=3, Ox=4, Oy=1, Ang=55, Curva=6, Onda=20, Estilo="bloques",       Tinte=Paleta.H("#5c4a3a") }},
         {'G', new Zona{ Nombre="Begoña",         Sp=17, Spy=12, W=3, Ox=6, Oy=7, Ang=65, Curva=7, Onda=18, Estilo="bloques",       Tinte=Paleta.H("#57505a") }},
         {'U', new Zona{ Nombre="Uribarri",       Sp=13, Spy=22, W=3, Ox=0, Oy=3, Ang=48, Curva=6, Onda=20, Estilo="bloques",       Tinte=Paleta.H("#4f5a63") }},

diff --git a/bilbo-city/herramientas/plano/trazar.py b/bilbo-city/herramientas/plano/trazar.py
@@ -47,7 +47,7 @@ CORREDORES = [
     # Basurtu, Altamira y Masustegi, al suroeste
     [(46,30,10),(41,34,11),(34,39,10),(28,44,8)],
     # Olabeaga y Zorrotza, ría abajo por la margen izquierda
-    [(32,32,9),(24,32,9),(16,31,8),(10,33,6)],
+    [(32,32,9),(24,32,9),(17,31,9),(11,32,8),(5,34,6)],
 ]
 
 def enCiudad(px, py):
@@ -86,6 +86,9 @@ BARRIOS = [
     ('D', 'Deusto',        19, 12, 3, 3, 5,  8, 4, 30, 'bloques',    '#4e5a52'),
     ('Z', 'Zorrotzaurre',  20, 16, 3, 2, 2, 14, 2, 30, 'industrial', '#6b5f45'),
     ('O', 'Olabeaga',      26, 20, 3, 6, 4, 40, 5, 26, 'industrial', '#5a5340'),
+    # Zorrotza es barrio propio, no un trozo de Olabeaga: margen izquierda río abajo,
+    # donde entra el Kadagua. Puerto, muelles y polígono, de ahí la trama industrial.
+    ('Y', 'Zorrotza',      28, 22, 3, 3, 7, 32, 4, 28, 'industrial', '#57503e'),
     ('S', 'Santutxu',      13, 20, 3, 4, 1, 55, 6, 20, 'bloques',    '#5c4a3a'),
     ('G', 'Begoña',        17, 12, 3, 6, 7, 65, 7, 18, 'bloques',    '#57505a'),
     ('U', 'Uribarri',      13, 22, 3, 0, 3, 48, 6, 20, 'bloques',    '#4f5a63'),
@@ -123,7 +126,7 @@ def tablaCS():
 # Centro de cada barrio. El peso encoge (<1) o agranda (>1) su reparto: el Casco Viejo
 # es pequeño de verdad y Txurdinaga y Rekalde son extensos.
 SEMILLAS = [('D',(30, 9)), ('U',(66,11)), ('G',(83,20)), ('T',(99,19)), ('S',(91,34)),
-            ('O',(24,33)), ('X',(60,20)), ('C',(71,28)), ('A',(58,23)), ('I',(53,30)),
+            ('O',(26,33)), ('Y',(11,32)), ('X',(60,20)), ('C',(71,28)), ('A',(58,23)), ('I',(53,30)),
             ('P',(50,27)), ('E',(46,31)), ('B',(38,35)), ('M',(74,43)), ('R',(57,45))]
 PESO = {'C':.85,'P':.5,'E':.55,'X':.75,'O':1.15,'T':1.15,'S':.95,'G':.95,
         'R':1.1,'B':1.05,'D':1.2,'U':1.05,'M':.95}

diff --git a/bilbo-city/unity/BilboCity/Assets/Scripts/Juego/Estado.cs b/bilbo-city/unity/BilboCity/Assets/Scripts/Juego/Estado.cs
@@ -142,7 +142,7 @@ public class Estado {
         S("taller",   "Taller Iker",            Paleta.H("#9d8ec4"), "taller",   228,204, 'R');
         S("hospital", "Hospital de Basurto",    Paleta.Blanco,       "hospital",  153,155, 'B');
         S("obra",     "Obra de Zorrotzaurre",   Paleta.H("#e8a33d"), null,         148, 86, 'Z');
-        S("puerto",   "Muelle de Olabeaga",     Paleta.H("#4d9de0"), null,         79,136, 'O');
+        S("puerto",   "Muelle de Olabeaga",     Paleta.H("#4d9de0"), null,         100,147, 'O');
         S("poli",     "Comisaría",              Paleta.H("#4dd0e1"), null,       214,128, 'I');
         S("guggen",   "El Guggenheim",          Paleta.H("#b8c4cc"), null,       246, 86, 'X', true);
         S("sanmames", "San Mamés",              Paleta.VerdeL,       null,        186,124, 'E', true);
@@ -163,6 +163,7 @@ public class Estado {
         S("deustuni", "Universidad de Deusto",  Paleta.H("#b8a05c"), null,        106, 39, 'D', true);
         S("maritimo", "Museo Marítimo",         Paleta.H("#6f9ab5"), null,         83,140, 'O', true);
         S("arena",    "Bilbao Arena",           Paleta.H("#c4693f"), null,       344,184, 'M', true);
+        S("zorrotza", "Estación de Zorrotza",   Paleta.H("#8fa66b"), null,        41,117, 'Y', true);
     }
     public static Sitio Sitio_(string id) { return Sitios.Find(s => s.Id == id); }
 }
